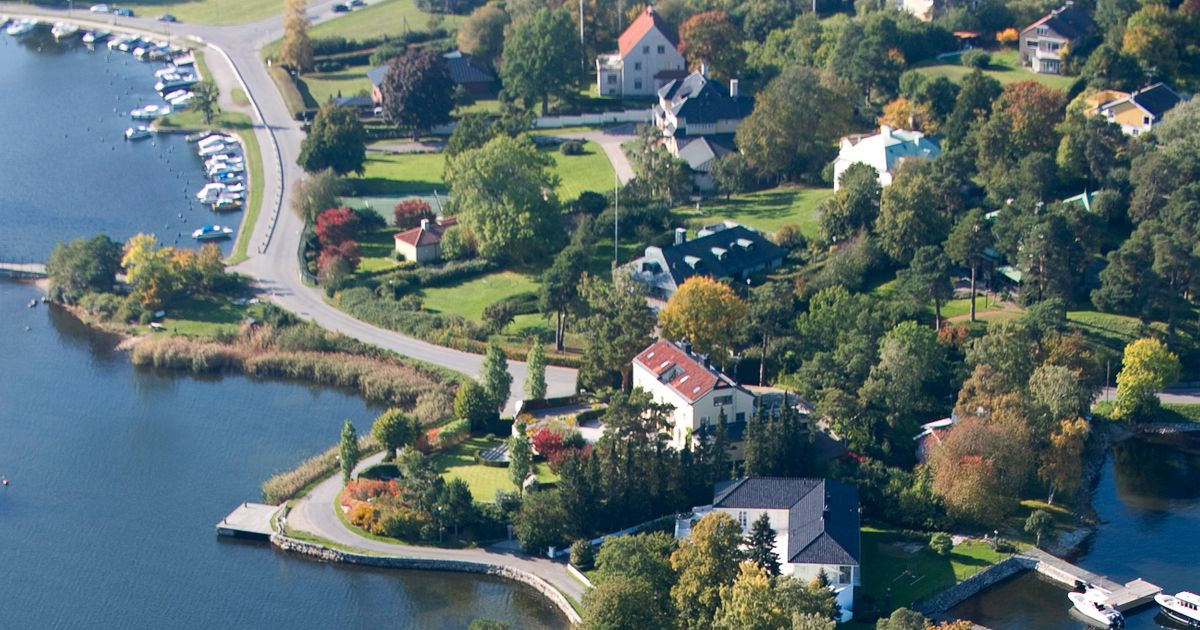
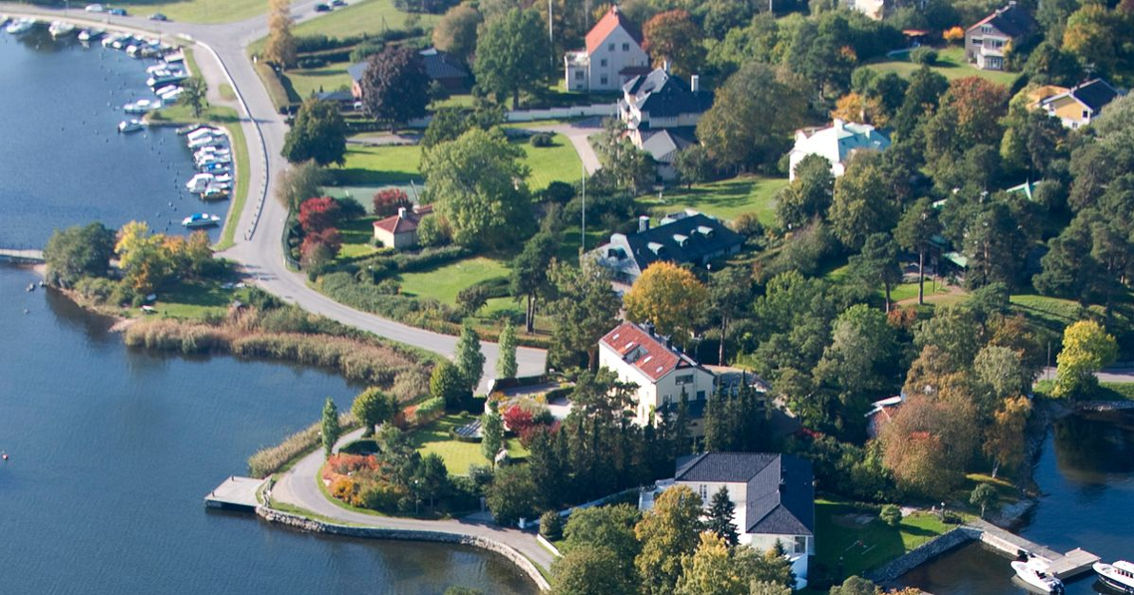
compressed images to 200kb

diff --git a/js/contact.js b/js/contact.js
@@ -1,38 +1,61 @@
-//grab document information when button is pressed
-$(document).ready(function () {
-  $("#submit").click(function () {
-    let name = $("#name").val();
-    let email = $("#email").val();
-    let message = $("#message").val();
-    //check if any fields are empty
-    if (checkEmpty(name) || checkEmpty(email) || checkEmpty(message)) {
-      alert("Please fill out all fields.");
-    }
-    //check if email is correctly formatted
-    else if (!checkEmail(email)) {
-      alert("Please enter a valid email.");
-    }
-    //send email
-    else {
-      alert("Message sent!");
-      $("#name").val("");
-      $("#email").val("");
-      $("#message").val("");
-    }
-  });
-});
+var form = document.getElementById("contact-form");
+var name = form.elements["name"];
+var email = form.elements["email"];
+var subject = form.elements["subject"];
+var message = form.elements["message"];
 
-//check email is correctly formatted
-function checkEmail(email) {
-  let re =
-    /^(([^<>()\[\]\\.,;:\s@"]+(\.[^<>()\[\]\\.,;:\s@"]+)*)|(".+"))@((\[[0-9]{1,3}\.[0-9]{1,3}\.[0-9]{1,3}\.[0-9]{1,3}\])|(([a-zA-Z\-0-9]+\.)+[a-zA-Z]{2,}))$/;
-  return re.test(String(email).toLowerCase());
+function validateEmail(email) {
+  var regex = /^[a-zA-Z0-9._-]+@[a-zA-Z0-9.-]+\.[a-zA-Z]{2,4}$/;
+  return regex.test(email);
 }
 
-//check if input is empty
-function checkEmpty(input) {
-  if (input.length == 0) {
-    return true;
+function showError(field, message) {
+  var error = document.createElement("span");
+  error.className = "error";
+  error.textContent = message;
+
+  field.parentNode.appendChild(error);
+}
+
+function removeError(field) {
+  var lastChild = field.parentNode.lastChild;
+
+  if (lastChild.tagName === "SPAN" && lastChild.className === "error") {
+    field.parentNode.removeChild(lastChild);
   }
-  return false;
 }
+
+form.addEventListener("button", function (event) {
+  event.preventDefault();
+
+  var valid = true;
+
+  removeError(name);
+  removeError(email);
+  removeError(subject);
+  removeError(message);
+
+  if (name.value.trim() === "") {
+    showError(name, "Du måste ange ditt namn.");
+    valid = false;
+  }
+
+  if (email.value.trim() === "" || !validateEmail(email.value)) {
+    showError(email, "Du måste ange en giltig e-postadress.");
+    valid = false;
+  }
+
+  if (subject.value.trim() === "") {
+    showError(subject, "Du måste ange ett ärende.");
+    valid = false;
+  }
+
+  if (message.value.trim() === "") {
+    showError(message, "Du måste ange ett meddelande.");
+    valid = false;
+  }
+
+  if (valid) {
+    alert("Formuläret är giltigt och kan skickas.");
+  }
+});

diff --git a/html/contact.html b/html/contact.html
@@ -7,7 +7,7 @@
     <link rel="stylesheet" href="../css/defaultStyle.css" />
     <link rel="stylesheet" href="../css/contactStyle.css" />
 
-    <script src="../js/contact.js"></script>
+    
     <title>DiKS Contact</title>
   </head>
   <body>
@@ -133,7 +133,7 @@
     </div>
     
     <div id="contact-form">
-      <form method="post">
+      <form >
         <h2>Contact Us</h2>
         <div class="form-field">
           <label for="name">Enter your name</label>
@@ -152,10 +152,12 @@
           <textarea name="message" id="message" cols="30" rows="10"></textarea>
         </div>
         <div class="form-field">
-          <input type="submit" />
+          <input type="button" value="Send"/>
         </div>
       </form>
     </div>
+    <script src="../js/contact.js"></script>
+    
     <footer>
       <nav id="footer-nav">
         <section id="home">

diff --git a/index.html b/index.html
@@ -6,6 +6,7 @@
     <link rel="stylesheet" href="./css/defaultStyle.css" />
     <link rel="stylesheet" href="./css/indexStyle.css" />
     <script src="./js/cultButton.js"></script>
+    
 
   </head>
   <body>
